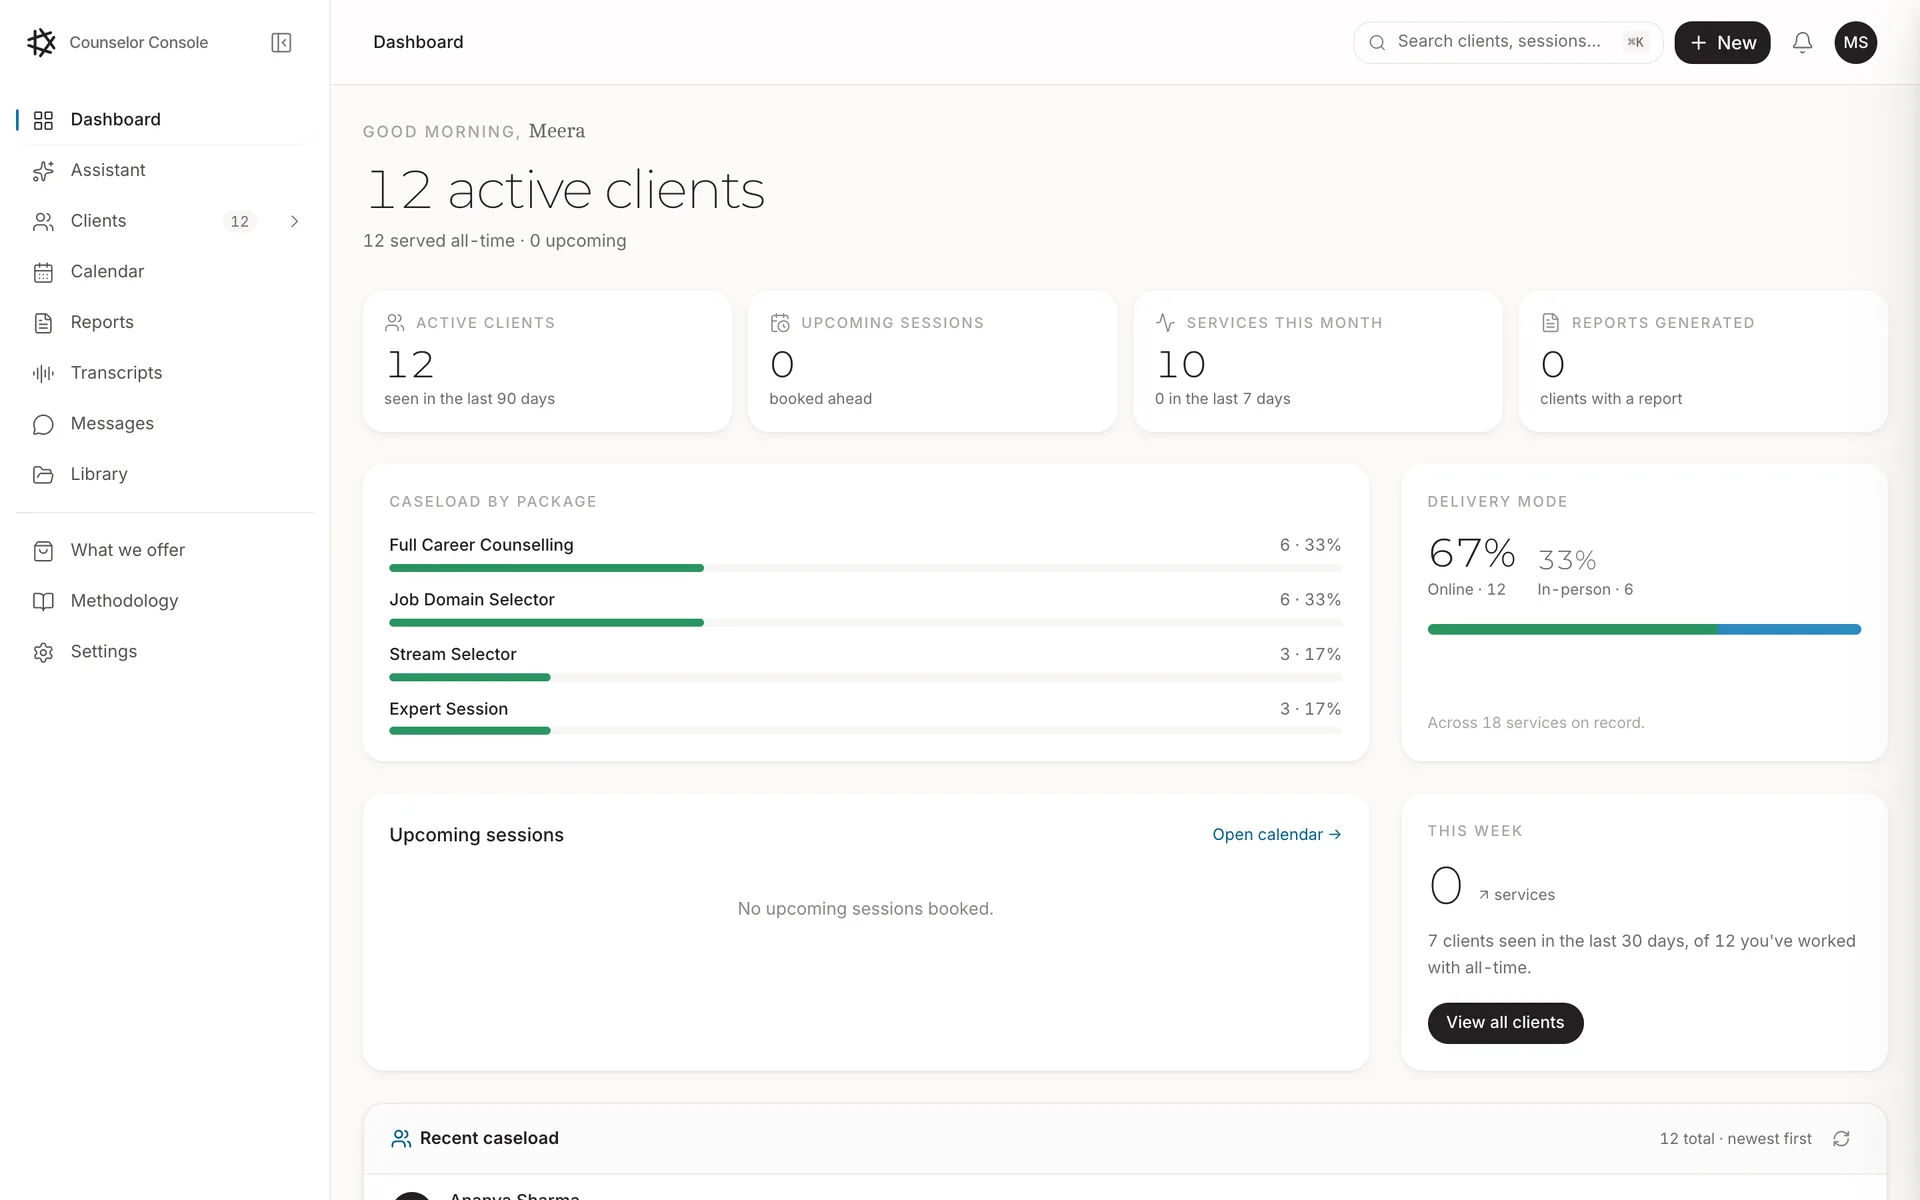
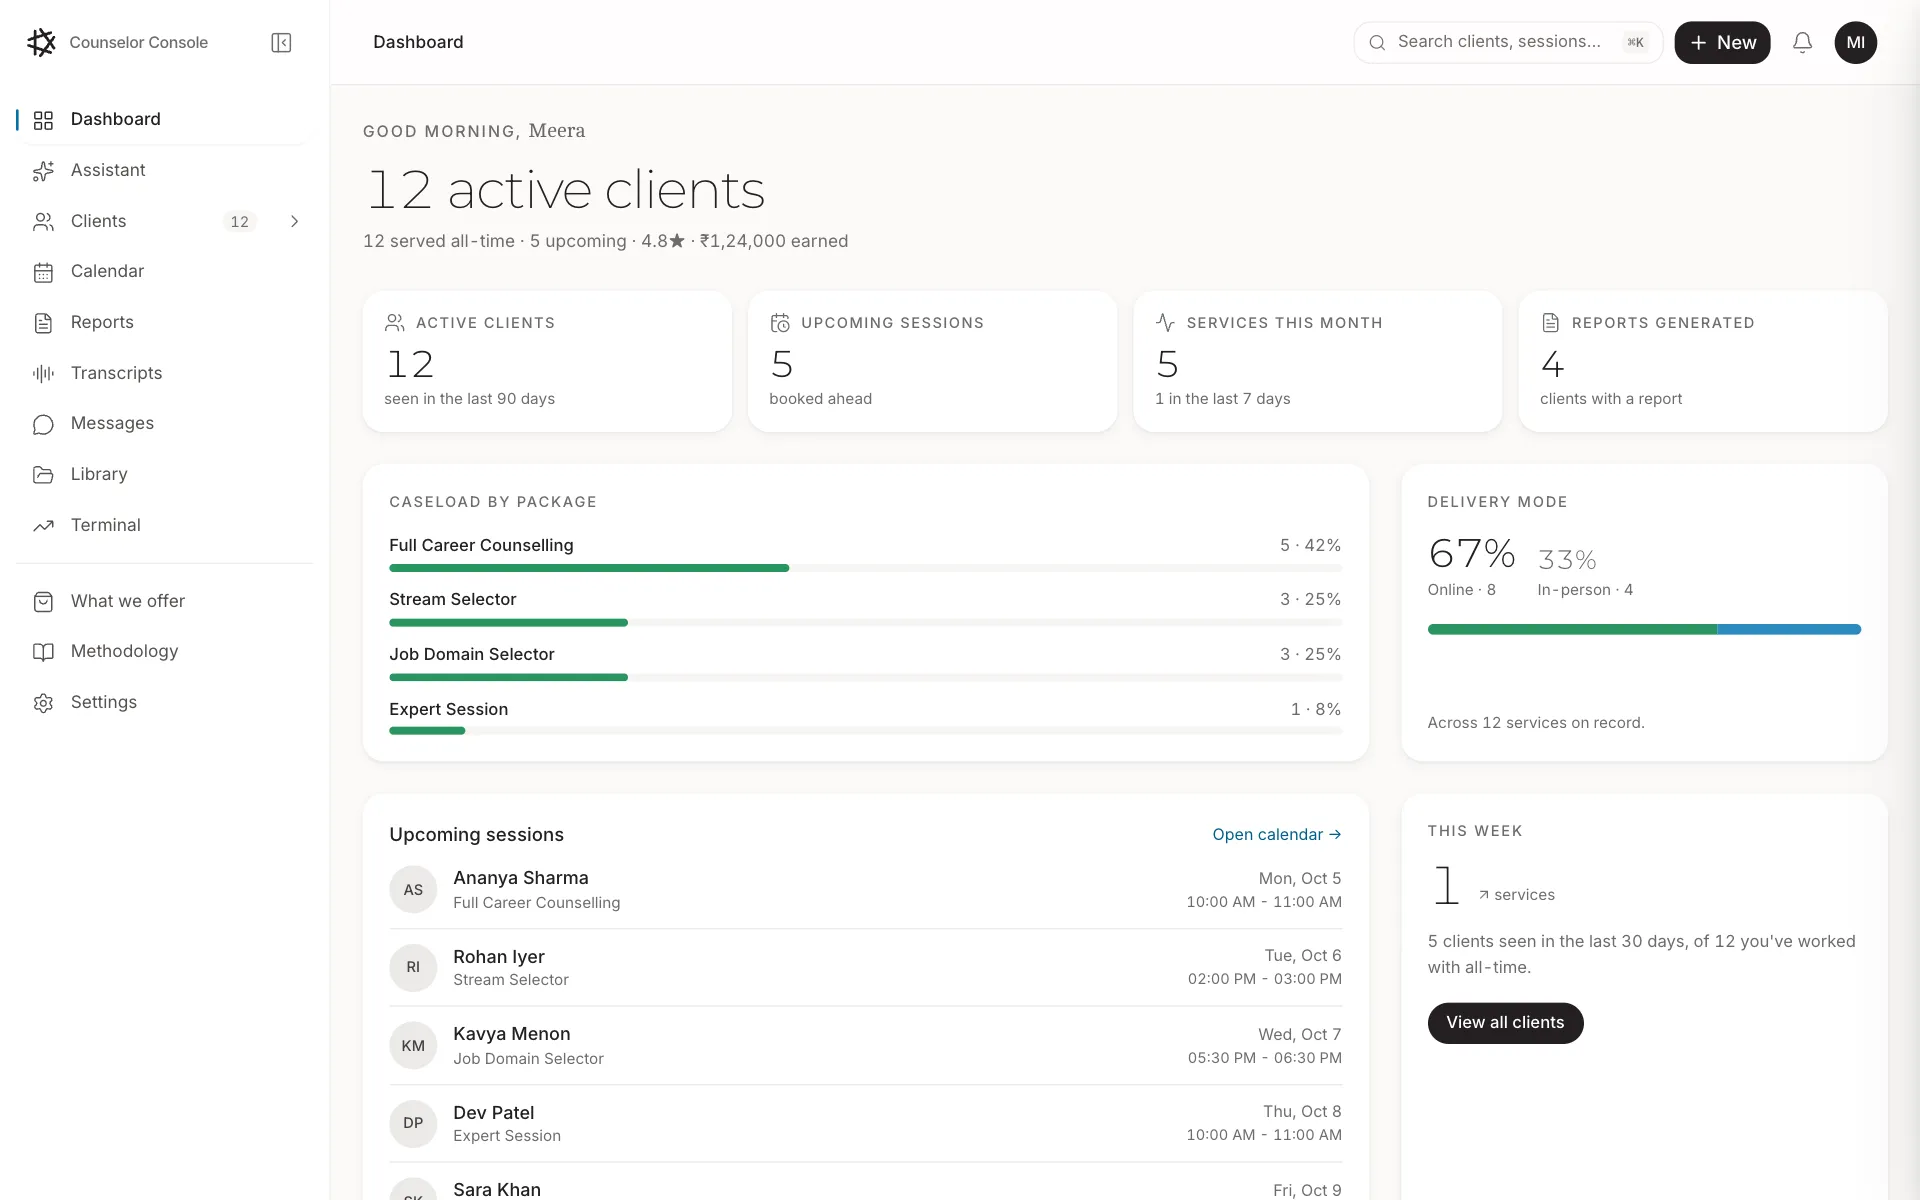
site: console screenshot with real upcoming sessions; IIS hosting for test.setmycareer.com
- console-overview.webp retaken through the mocked console (fictional names): it showed
  "0 upcoming sessions" and an empty list on the page that sells the console.
- test.setmycareer.com only resolves "/" because Cloudflare proxies it to an IIS server
  holding a single index.html from 26 July. deploy/iis/ has a web.config (prerendered
  routes served without IIS's trailing-slash redirect, app-shell fallback, MIME types,
  immutable /assets) and a README with both fixes: point the record at Vercel (the domain
  is now attached to the site project) or upload the whole dist with the config.

diff --git a/site/src/pages/Counsellors.tsx b/site/src/pages/Counsellors.tsx
@@ -93,7 +93,7 @@ export function Counsellors() {
           <p data-reveal className="lead mt-6 max-w-xl text-paper/60">Your caseload, your morning, your reports — the actual screens, shown here with a sample caseload.</p>
 
           <div className="mt-12">
-            <ProductShot src="/product/console-overview.webp" alt="The counsellor console dashboard — active clients, caseload by package, delivery mode and the day's sessions" chrome="app.setmycareer.com/overview" label="Dashboard" />
+            <ProductShot src="/product/console-overview.webp" alt="The counsellor console dashboard — active clients, caseload by package, delivery mode and the upcoming sessions" chrome="app.setmycareer.com/overview" label="Dashboard" />
           </div>
           <div className="mt-8 grid gap-8 md:grid-cols-2">
             <ProductShot src="/product/console-clients.webp" alt="The counsellor caseload — every client, their packages and last session, searchable" chrome="app.setmycareer.com/clients" label="Caseload" imgClassName="object-top" />

diff --git a/site/deploy/iis/README.md b/site/deploy/iis/README.md
@@ -1,0 +1,35 @@
+# Hosting the marketing site on IIS (test.setmycareer.com)
+
+**Why only the homepage works today:** Cloudflare proxies `test.setmycareer.com` to an IIS server
+(`x-powered-by: ASP.NET`). Only one `index.html`, from a 26 July build, was uploaded there. Every
+other path (`/pricing`, `/career-counselling`, `/blog/...`) returns IIS's
+"404 - File or directory not found". Every page's canonical tag and the sitemap point at this host,
+so search engines are being sent to 404s.
+
+There are two fixes. Pick one.
+
+## Option A: point the subdomain at Vercel (no server work)
+
+The domain is already attached to the Vercel `site` project. In Cloudflare DNS for setmycareer.com:
+
+| Type | Name | Content | Proxy |
+|---|---|---|---|
+| A | `test` | `76.76.21.21` | **DNS only** (grey cloud) |
+
+Replace the existing `test` record. Vercel issues the certificate within minutes, and every push to
+`main` deploys there. This also retires the IIS copy.
+
+## Option B: keep IIS, upload the whole build
+
+1. Make sure the **URL Rewrite** module is installed on the server
+   (IIS Manager → the site → "URL Rewrite" icon present). If it isn't, install it first.
+   Without it, `web.config` makes IIS return 500.19 on every URL.
+2. Build: `cd site && npm run build`. `VITE_SITE_URL` already defaults to
+   `https://test.setmycareer.com`, so canonicals and the sitemap match this host.
+3. Upload the **contents** of `site/dist/` to the site root. That is every route folder, `assets/`,
+   `product/`, `fonts/`, `art/`, `logos/`, `robots.txt`, `sitemap.xml`, `llms.txt` and `app.html`,
+   not just `index.html`.
+4. Copy `deploy/iis/web.config` into the same root.
+5. Check: `curl -sI https://test.setmycareer.com/pricing` should be `200`, with no redirect to `/pricing/`.
+
+Option B has to be repeated on every release. Option A doesn't.
